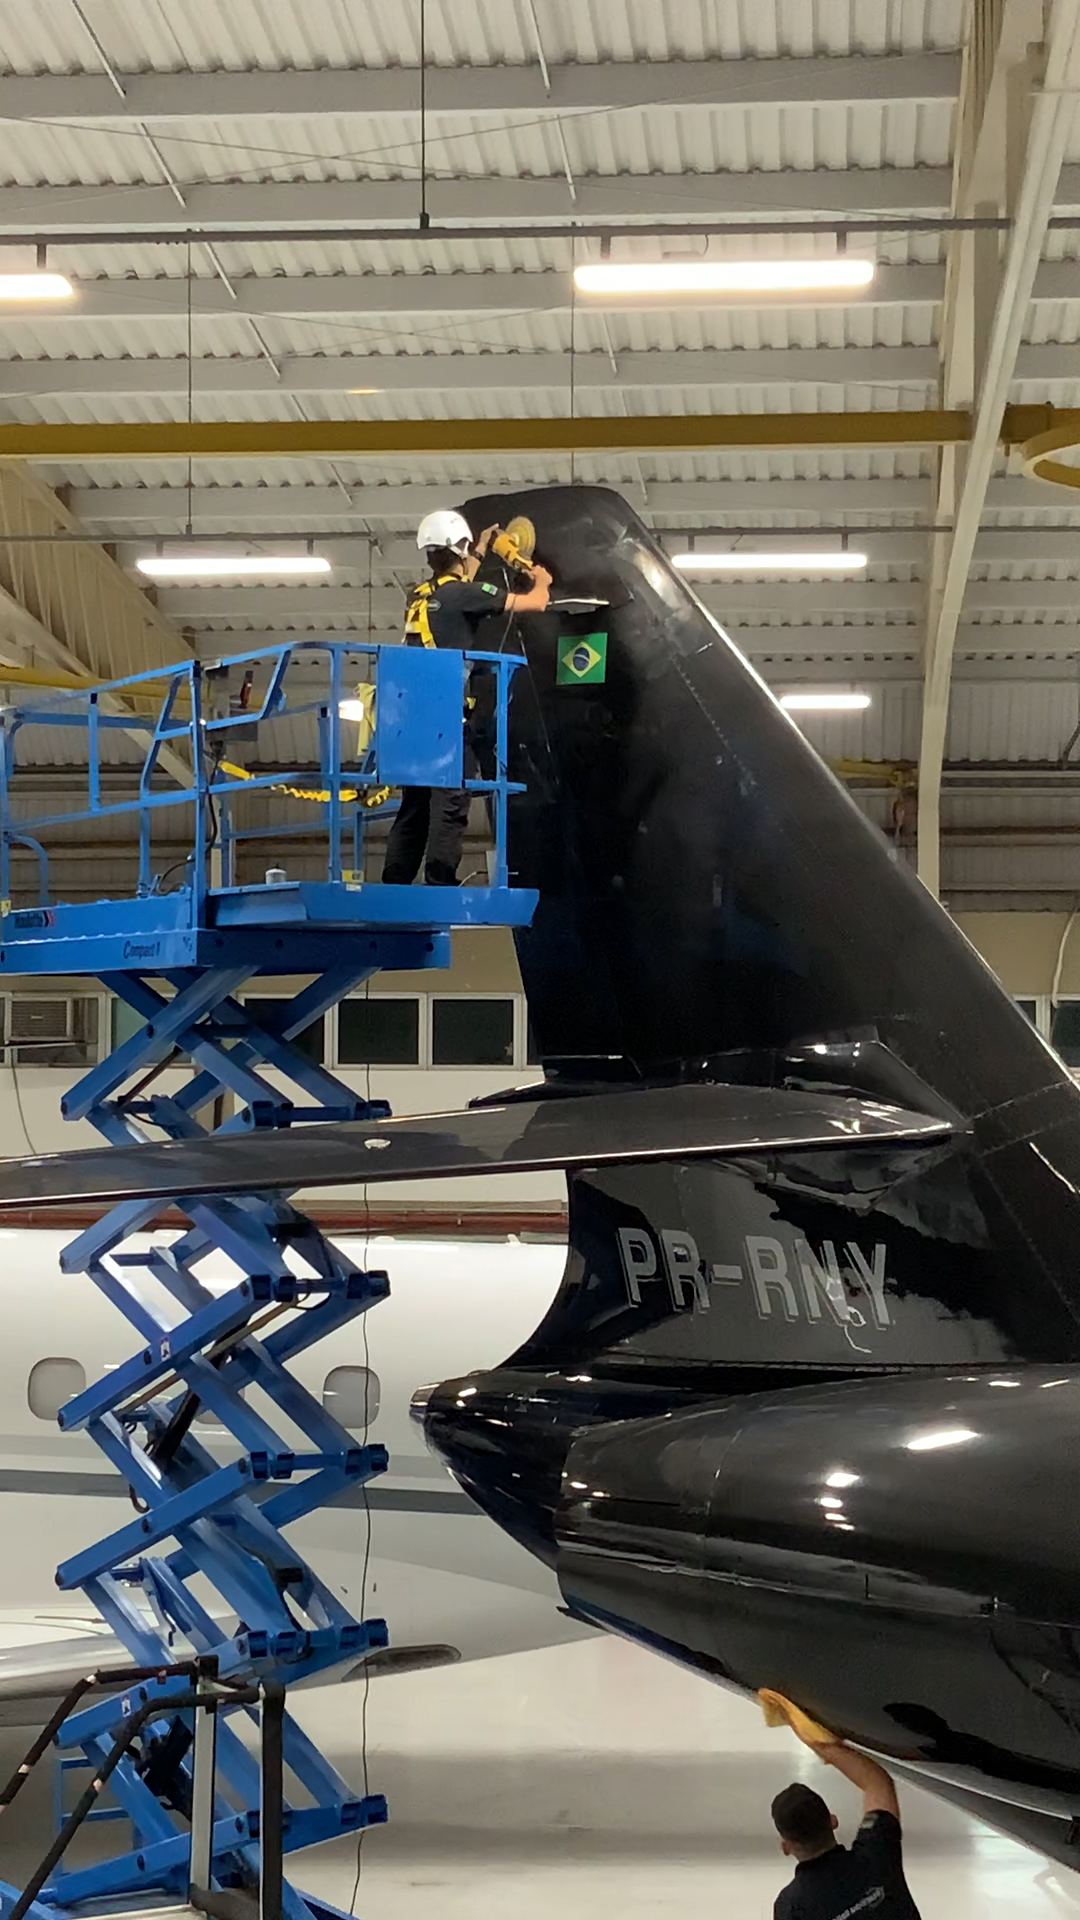
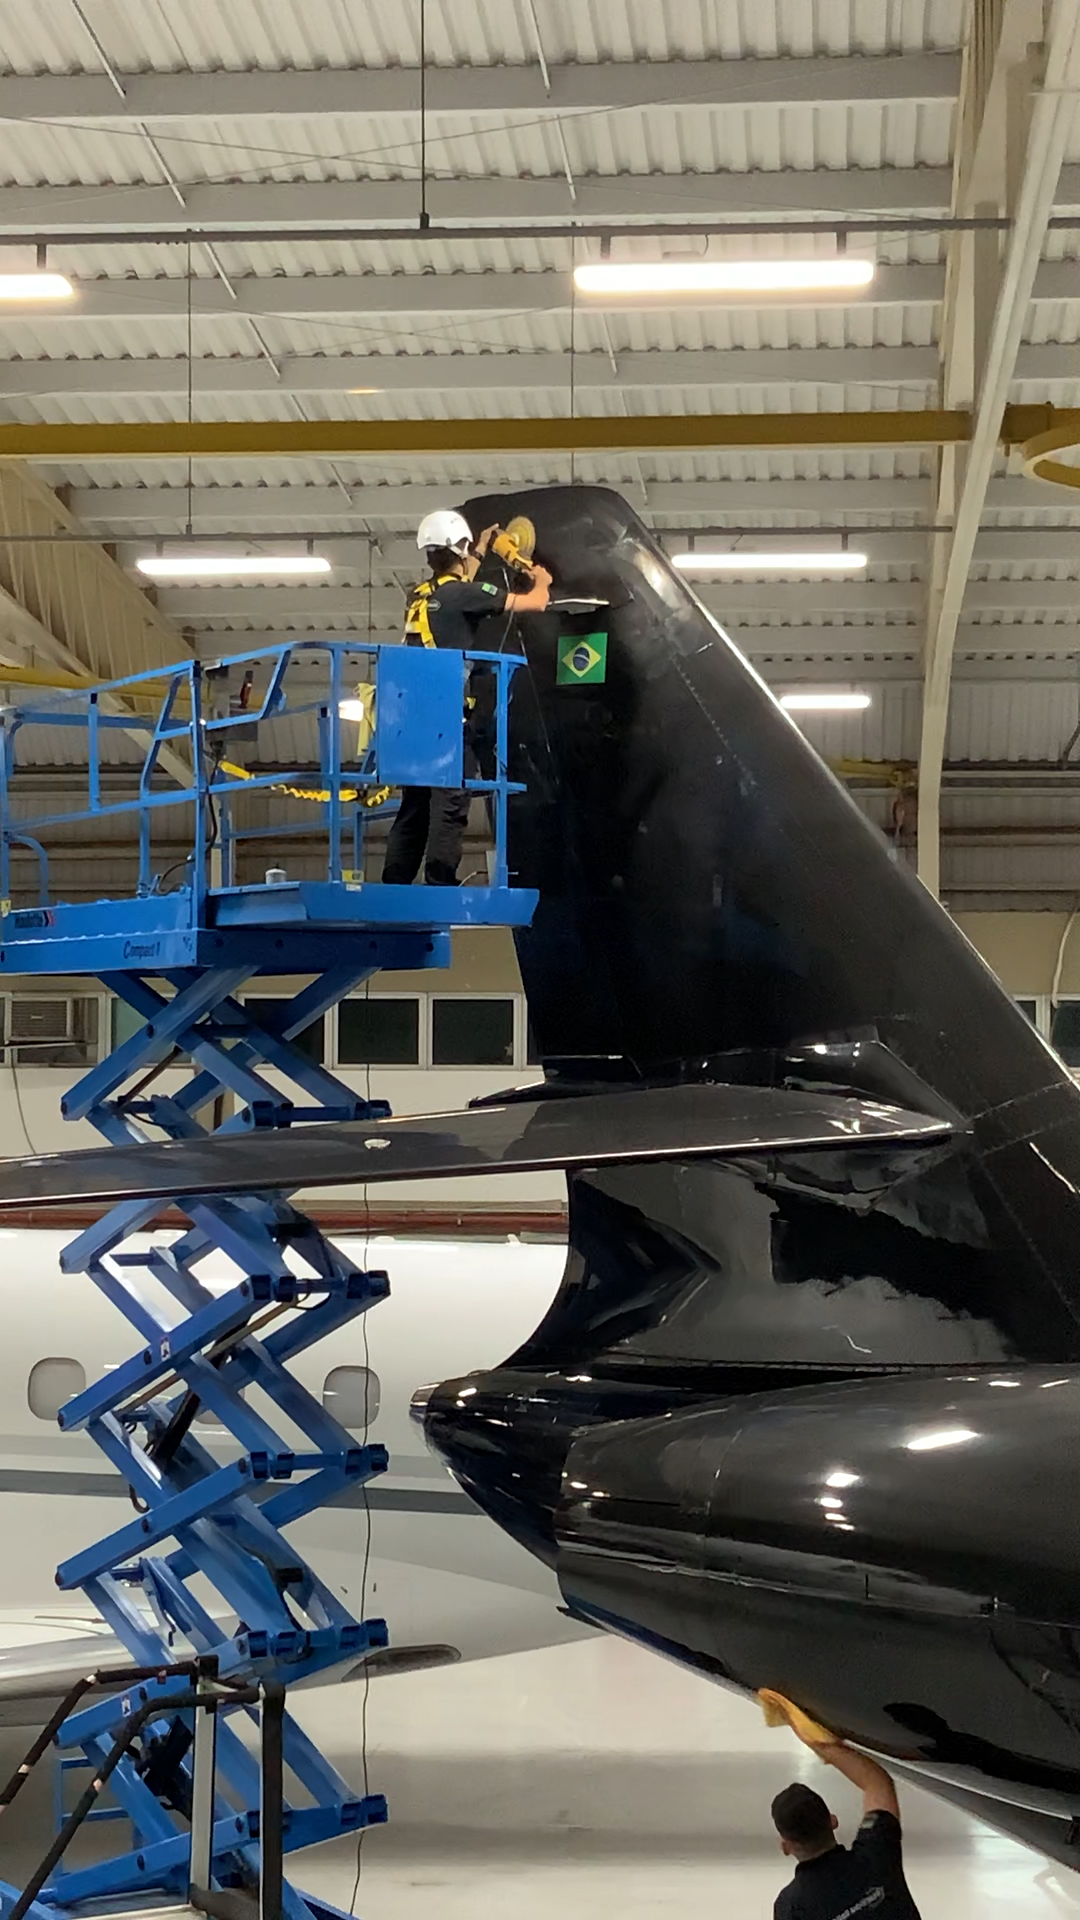
established updates

Changed region(s): [[0.55, 0.625, 0.825, 0.6875]]

diff --git a/src/app/_components/Products.tsx b/src/app/_components/Products.tsx
@@ -12,7 +12,7 @@ export default function Products() {
     return (
 
         <section className="bg-white">
-            <div className="bg-linear-to-tr from-red-200 via-white via-50% to-red-100 to-160% p-6 font-custom">
+            <div className="bg-linear-to-tr from-red-200 via-white via-50% to-red-100 to-160% p-6 font-custom overflow-hidden">
                 {/* <div className="text-4xl font-bold pb-6">
                     <h1>PRODUTOS</h1>
                 </div> */}
@@ -24,20 +24,20 @@ export default function Products() {
                 <div className="flex flex-col gap-9">
                     <div className="flex flex-col justify-center items-center gap-6">
                         <h3 className="border-b border-red-500">APC</h3>
-                        <Image src={spray} alt="logo produtos" className="w-10" />
-                        <Image src={ap001} alt="ap001" className="w-28" />
+                        <Image src={spray} alt="logo produtos" className="w-10" data-aos="fade-right"/>
+                        <Image src={ap001} alt="ap001" className="w-28" data-aos="fade-left"/>
                         <p className="font-light text-center text-[0.7rem]">Limpador versátil que pode ser usado em diferentes superfícies, tanto no interior quanto exterior, formulado para remover sujeiras e outros contaminantes de maneira eficiente, sem danificar as aréas sensíveis das aeronaves.</p>
                     </div>
                     <div className="flex flex-col justify-center items-center gap-6">
                         <h3 className="border-b border-red-500">CERA LÍQUIDA</h3>
-                        <Image src={gallon} alt="logo produtos" className="w-10" />
-                        <Image src={ap0010} alt="ap0010" className="w-36" />
+                        <Image src={gallon} alt="logo produtos" className="w-10" data-aos="fade-left" />
+                        <Image src={ap0010} alt="ap0010" className="w-36" data-aos="fade-right"/>
                         <p className="font-light text-center text-[0.7rem]">Limpador versátil que pode ser usado em diferentes superfícies, tanto no interior quanto exterior, formulado para remover sujeiras e outros contaminantes de maneira eficiente, sem danificar as aréas sensíveis das aeronaves.</p>
                     </div>
                     <div className="flex flex-col justify-center items-center gap-6">
                         <h3 className="border-b border-red-500">MASSA DE POLIR</h3>
-                        <Image src={bucket} alt="logo produtos" className="w-10" />
-                        <Image src={ap0020} alt="ap0020" className="w-36" />
+                        <Image src={bucket} alt="logo produtos" className="w-10" data-aos="fade-right"/>
+                        <Image src={ap0020} alt="ap0020" className="w-36" data-aos="fade-left"/>
                         <p className="font-light text-center text-[0.7rem]">Limpador versátil que pode ser usado em diferentes superfícies, tanto no interior quanto exterior, formulado para remover sujeiras e outros contaminantes de maneira eficiente, sem danificar as aréas sensíveis das aeronaves.</p>
                     </div>
                     <a href="#" className="bg-linear-to-tr from-red-950 via-red-700 via-50% to-red-500 to-160% flex items-center justify-center w-fit gap-2 px-4 py-2 rounded-md text-white"><WhatsappLogo className="w-5 h-5 text-white" />Contato via Whatsapp</a>

diff --git a/src/app/_components/Certified.tsx b/src/app/_components/Certified.tsx
@@ -6,17 +6,17 @@ import { Award } from "lucide-react";
 export default function Certified() {
     return (
 
-        <section className="bg-linear-to-tr from-zinc-100 via-white via-50% to-zinc-300 to-160% p-6 font-custom">
+        <section className="bg-linear-to-tr from-zinc-100 via-white via-50% to-zinc-300 to-160% p-6 font-custom overflow-hidden">
             <div className="text-3xl font-bold pb-3">
                 <h1>CERTIFICAÇÕES</h1>
             </div>
             <Award className="w-12 h-12"/>
             <p className="text-[0.9rem] tracking-[.05em] pb-6 pt-4" data-aos="fade-right">A primeira empresa especializada em estética aeronaútica homologada para executar serviços de limpeza e conservação de aeronaves, atendendo em todo território nacional e internacional, conforme orientação dos manuais de fabricantes e regulamentações da ANAC.</p>
             <div className="flex justify-center items-center gap-20">
-                <div className="w-32">
+                <div className="w-32" data-aos="fade-right">
                     <Image src={logoanac} alt="logoanac" />
                 </div>
-                <div className="w-32">
+                <div className="w-32" data-aos="fade-left">
                     <Image src={logoida} alt="logoida" />
                 </div>
             </div>

diff --git a/src/app/_components/Footer.tsx b/src/app/_components/Footer.tsx
@@ -3,6 +3,12 @@ import leonardo from '../../../public/leonardo.png'
 import robinson from '../../../public/robinson.png'
 import cirrus from '../../../public/cirrus.png'
 import embraer from '../../../public/embraer.png'
+import bell from '../../../public/bell.svg'
+import cessna from '../../../public/cessna.svg'
+import bombardier from '../../../public/bombardier.svg'
+import beechcraft from '../../../public/beechcraft.svg'
+import dassault from '../../../public/dassault.svg'
+import gulfstream from '../../../public/gulfstream.png'
 import Image from 'next/image'
 import { FacebookLogo, InstagramLogo, YoutubeLogo } from '@phosphor-icons/react/dist/ssr'
 
@@ -12,6 +18,12 @@ const brands = [
     { name: "Robinson", logo: robinson },
     { name: "Cirrus", logo: cirrus },
     { name: "Embraer", logo: embraer },
+    { name: "Beechcraft", logo: beechcraft },
+    { name: "Bombardier", logo: bombardier },
+    { name: "Gulfstream", logo: gulfstream },
+    { name: "Dassault", logo: dassault },
+    { name: "Bell", logo: bell },
+    { name: "Cessna", logo: cessna },
 ]
 
 
